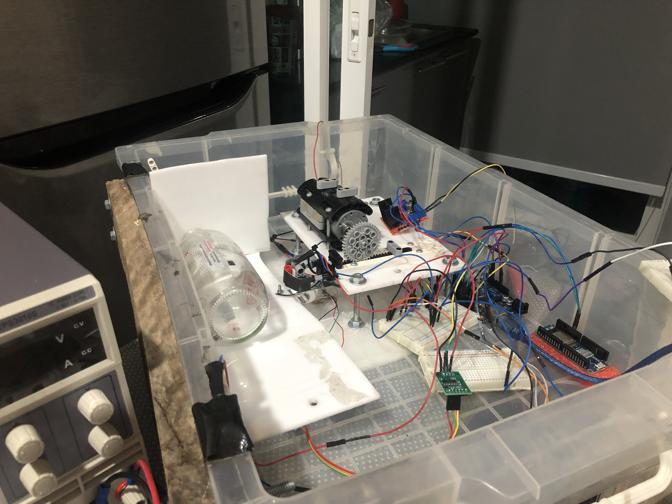
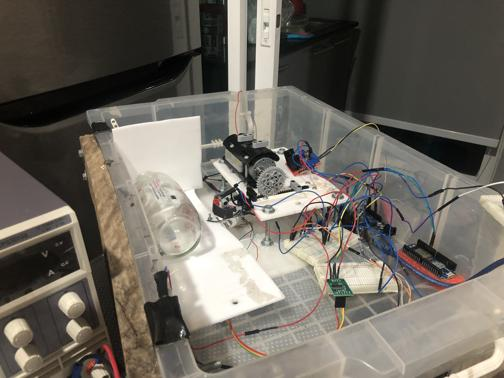
resize

diff --git a/pic/resize_img.py b/pic/resize_img.py
@@ -5,7 +5,7 @@ import glob
 
 image = Image.open("/media/storage/pic/103APPLE/IMG_3333.JPG")
 print(image.size)
-resized_image = image.resize((int(image.size[0]/6),int(image.size[1]/6)))
+resized_image = image.resize((int(image.size[0]/8),int(image.size[1]/8)))
 
 print(resized_image.size)
 resized_image.save("/home/leon/BottleIdentifier/pic/classifier.jpg")
